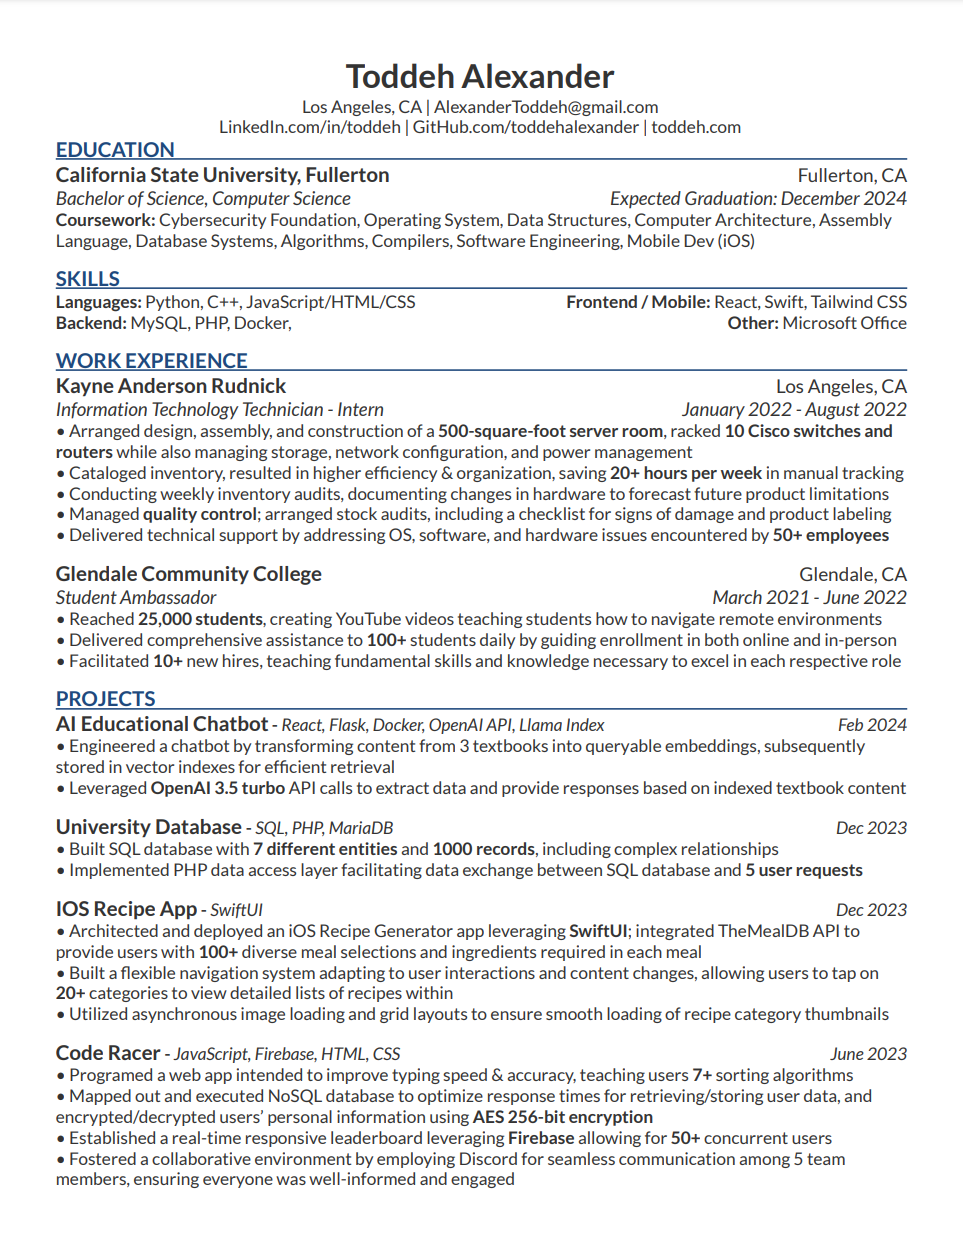
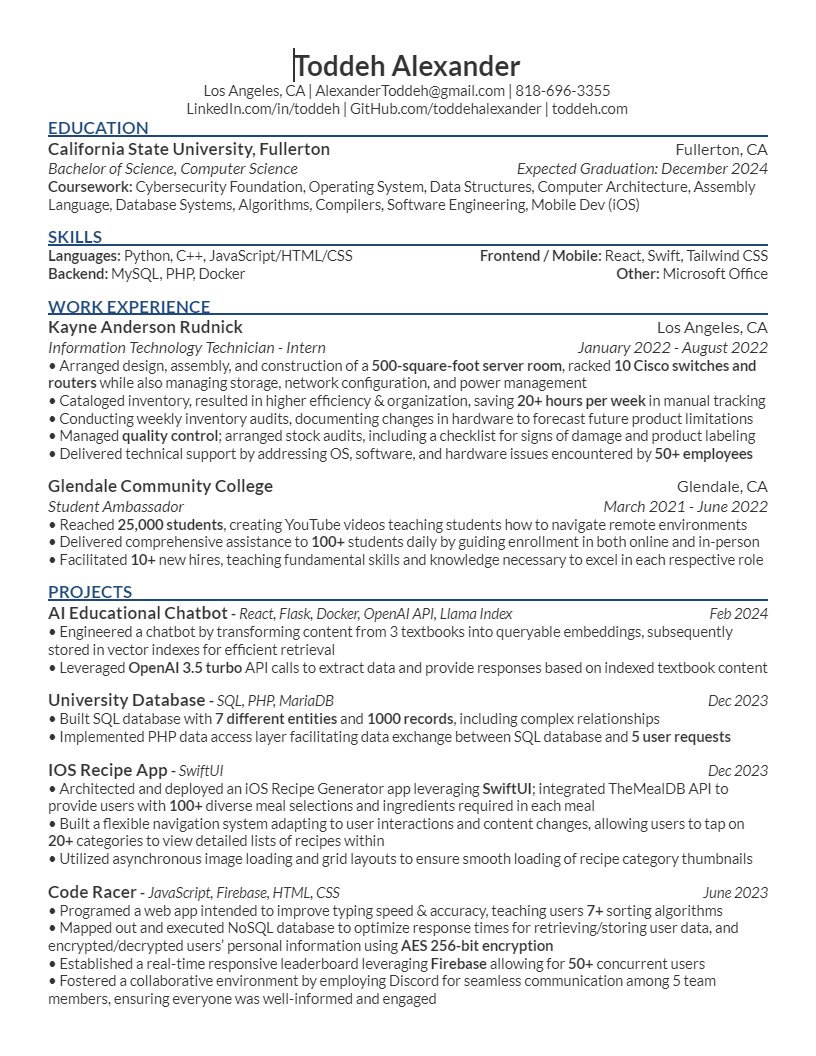
updated change log, added resume, added documentation button for code racer

Changed region(s): [[0.0613, 0.0312, 0.9498, 0.9688]]

diff --git a/ChangeLog/index.html b/ChangeLog/index.html
@@ -23,8 +23,14 @@
         <div>🟢 Added | 🟡 ToDo | 🔴 Removed</div>
         <hr>
         <ul>
-            <span class="date post-link" style="user-select: none;">03-11-2024</span>
+            <span class="date post-link" style="user-select: none;">03-08-2024</span>
             <div class="dropdown-content" id="newest">
+                <div>🟢 Added documentation for "Code Racer" project</div>
+                <div>🟢 Updated Resume</div>
+                <hr>
+            </div>
+            <span class="date underline" style="user-select: none;">03-11-2024</span>
+            <div class="dropdown-content" id="content">
                 <div>🟢 Hover for "←" button on each page</div>
                 <div>🟢 Hover logo for work experiance</div>
                 <div>🟢 Added name animation; lego letters drop and random bounce</div>

diff --git a/index.html b/index.html
@@ -43,11 +43,10 @@
     <hr>
 <!-- Start of the Resume-->
     <a class="post-link-main post-link-main-tooltip center-text" href="/assets/Toddeh_Alexander_Resume.pdf" target="_blank" style="padding-top: 15px; padding-bottom: 15px;">
-      <strong>Resume</strong> as of 3/5/2024
+      <strong>Resume</strong> as of 3/12/2024
       <div style="margin: 0; padding: 0; color: var(--main-text);">Click to open</div>
       <div class="tooltip-image">
           <img src="/assets/Resume.png" alt="Tooltip Image" style="width: 200px; height: auto; filter: blur(2px);">
-          <!-- <embed src="/assets/Toddeh_Alexander_Resume.pdf" alt="Tooltip Image" style="width: 200px; height: 260px; filter: blur(2px);"> -->
       </div>
   </a>
 <!-- End of the Resume-->
